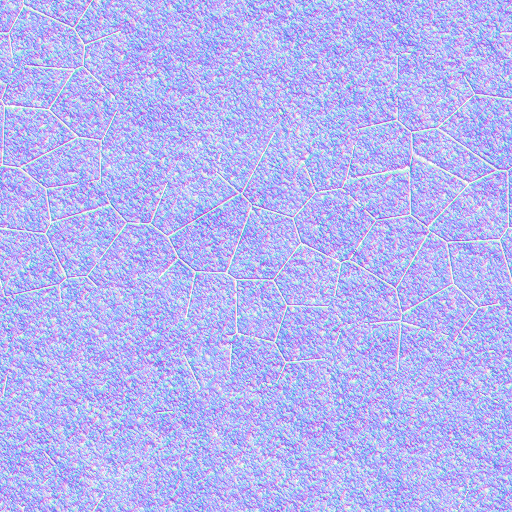
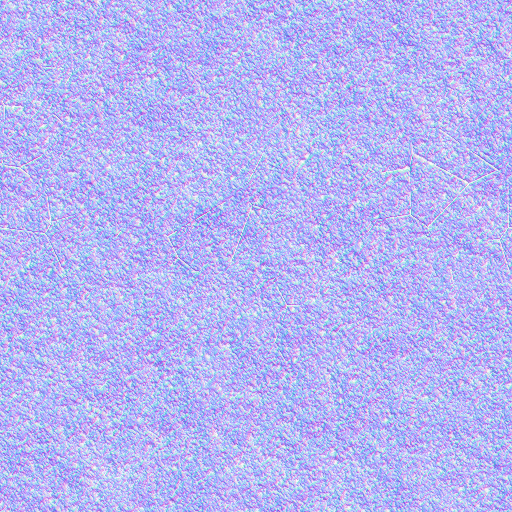
BLUE DEPTHS: per-species anemones, habitat in dex, rock texture tuning, docs
Claude-Session: https://claude.ai/code/session_0151Z8VC4Rsou7AMid53YERt

diff --git a/dive/src/life/species2.ts b/dive/src/life/species2.ts
@@ -135,9 +135,9 @@ export const MORE_SPECIES: SpeciesDef[] = [
     look: { c: ['#f6d020', '#f8dc2a', '#fae860'], fin: '#f4cc20' }, desc: '全身鮮やかなレモンイエロー。枝サンゴの周りから離れない。' }),
   F({ id: 'yosuji', name: 'フタスジリュウキュウスズメダイ', sci: 'Dascyllus reticulatus', zone: 'reef', d: [1, 30], size: 0.07, body: sh('damsel', { H: 0.55 }), hab: 'coralHover', n: 40, g: 8,
     look: { c: ['#9aa6ae', '#c0c8cc', '#dfe3e4'], fin: '#2a2a2a', tail: '#d0d4d6', bars: [[0.3, 0.07, '#1e1e1e'], [-0.18, 0.06, '#1e1e1e']], net: 'rgba(80,90,100,0.35)' }, desc: '銀灰色に2本の黒帯。ハナヤサイサンゴなどに群れて暮らす。' }),
-  F({ id: 'hamakumanomi', name: 'ハマクマノミ', sci: 'Amphiprion frenatus', zone: 'reef', d: [1, 12], size: 0.11, body: sh('clown'), hab: 'cleaner', behavior: 'anemone', region: 'anemones', n: 12, g: 6,
+  F({ id: 'hamakumanomi', name: 'ハマクマノミ', sci: 'Amphiprion frenatus', zone: 'reef', d: [1, 12], size: 0.11, body: sh('clown'), hab: 'cleaner', behavior: 'anemone', region: 'anemones', n: 10, g: 5,
     look: { c: ['#c8340c', '#e04a12', '#e86020'], fin: '#e05010', bars: [[0.3, 0.06, WH, BK]] }, desc: '赤オレンジの体に白帯1本。イソギンチャクに強く縄張りをもつ。' }),
-  F({ id: 'kumanomi', name: 'クマノミ', sci: 'Amphiprion clarkii', zone: 'reef', d: [1, 20], size: 0.12, body: sh('clown'), hab: 'cleaner', behavior: 'anemone', region: 'anemones', n: 12, g: 6,
+  F({ id: 'kumanomi', name: 'クマノミ', sci: 'Amphiprion clarkii', zone: 'reef', d: [1, 20], size: 0.12, body: sh('clown'), hab: 'cleaner', behavior: 'anemone', region: 'anemones', n: 10, g: 5,
     look: { c: ['#3a2410', '#5a3410', '#f09030'], mid: 0.4, fin: '#f0a020', tail: '#f6e080', bars: [[0.3, 0.07, WH, '#222'], [0.0, 0.08, WH, '#222']] }, desc: '黒褐色の体に白帯2本、ヒレは黄色。いろいろなイソギンチャクと共生する。' }),
   F({ id: 'hanabirakuma', name: 'ハナビラクマノミ', sci: 'Amphiprion perideraion', zone: 'reef', d: [2, 20], size: 0.09, body: sh('clown'), hab: 'cleaner', behavior: 'anemone', region: 'anemones', n: 10, g: 5,
     look: { c: ['#f0a07a', '#f6b48e', '#f8c4a2'], fin: '#f6c0a0', bars: [[0.3, 0.025, WH]], hl: [[0.5, 0.08, WH, -0.45, 0.45]] }, desc: '淡いピンク色に背中の白線。花びらのような可憐なクマノミ。' }),

diff --git a/dive/src/game/Game.ts b/dive/src/game/Game.ts
@@ -86,9 +86,12 @@ export class Game {
     this.scene.environment = this.makeEnvMap();
     this.scene.environmentIntensity = 0.6;
     this.scene.add(this.terrain.group);
+    const t0 = performance.now();
     this.flora = new Flora();
+    const t1 = performance.now();
     this.scene.add(this.flora.group);
     this.creatures = new Creatures(this.flora.homes);
+    (window as unknown as Record<string, unknown>).__BOOT_MS__ = { flora: Math.round(t1 - t0), creatures: Math.round(performance.now() - t1) };
     this.scene.add(this.creatures.group);
     this.audio.onExhale = () => {
       if (this.state === 'diving') this.env.exhale(this.camera, this.ads ? 0 : 1);
@@ -266,7 +269,7 @@ export class Game {
     $('dd-name').textContent = f ? s.name : '？？？';
     $('dd-sci').textContent = f ? s.sci : '';
     $('dd-meta').textContent = f ? `大きさ 約${s.size >= 1 ? s.size.toFixed(1) + 'm' : Math.round(s.size * 100) + 'cm'}　撮影水深 ${f.depth.toFixed(1)}m${this.pending.has(id) && !this.save.found[id] ? '　（未保存：浮上で登録）' : ''}` : '';
-    $('dd-desc').textContent = f ? s.desc : `ヒント：${s.hint}`;
+    $('dd-desc').textContent = f ? s.desc + (s.habLabel ? `\n【くらし】${s.habLabel}。` : '') : `ヒント：${s.hint}`;
     $('dex-detail').classList.remove('hidden');
   }
 
@@ -775,6 +778,16 @@ export class Game {
         this.camera.updateMatrixWorld();
         this.creatures.update(0, this.camera.position, this.vel, this.camera.getWorldDirection(this.tmpDir));
         this.paused = true;
+        return true;
+      },
+      aimAt: (id: string) => {
+        const rt = this.creatures.list.find((r) => r.def.id === id);
+        const a = rt?.agents[0];
+        if (!a) return false;
+        const c = this.camera.position;
+        const dx = a.p.x - c.x, dy = a.p.y - c.y, dz = a.p.z - c.z;
+        this.yaw = Math.atan2(-dx, -dz);
+        this.pitch = Math.atan2(dy, Math.hypot(dx, dz));
         return true;
       },
       nearFish: (r = 25) => {

diff --git a/dive/src/life/species.ts b/dive/src/life/species.ts
@@ -122,7 +122,7 @@ export const SPECIES: SpeciesDef[] = [
     hint: 'サンゴ礁のイソギンチャクを探そう。',
     kind: 'fish', fish: { H: 0.42, W: 0.2, peak: 0.58, nose: 0.55, ped: 0.24, tail: 'round', tailL: 0.22, tailH: 0.38, dorsal: [{ a: 0.2, b: 0.7, h: 0.13 }], anal: [{ a: 0.18, b: 0.4, h: 0.12 }], pect: { t: 0.7, len: 0.1, wid: 0.07, down: 0.4 }, pelvic: true, eyes: 0.14 },
     paint: (p) => { fins(p, '#f07018'); p.g.fillStyle = '#111'; p.g.fillRect(0, 0, p.U(-0.47), p.H); p.shade('#f06010', '#f87a18', '#f89040'); p.bar(0.3, 0.07, '#fafafa', '#111'); p.bar(0.03, 0.09, '#fafafa', '#111'); p.bar(-0.38, 0.06, '#fafafa', '#111'); p.eye(0.14, '#f06010'); },
-    count: 38, groups: 18, behavior: 'anemone', region: 'anemones', speed: 0.35, flee: 0, swim: [5, 0.05, 6], photoRange: 6,
+    count: 18, groups: 9, behavior: 'anemone', region: 'anemones', speed: 0.35, flee: 0, swim: [5, 0.05, 6], photoRange: 6,
   },
   {
     id: 'bluetang', name: 'ナンヨウハギ', sci: 'Paracanthurus hepatus', zone: 'reef', depth: [2, 40], size: 0.25, rarity: 1,

diff --git a/dive/src/life/creatures.ts b/dive/src/life/creatures.ts
@@ -158,7 +158,11 @@ export class Creatures {
     const reg = def.region;
     const fromList = (arr: THREE.Vector3[]) => arr[Math.floor(r() * arr.length) % Math.max(1, arr.length)].clone();
     let p: THREE.Vector3;
-    if (reg === 'anemones') p = homes.anemones[i % homes.anemones.length].clone();
+    if (reg === 'anemones') {
+      // each anemonefish species keeps its own host anemones
+      const off: Record<string, number> = { clownfish: 0, hamakumanomi: 9, kumanomi: 14, hanabirakuma: 19 };
+      p = homes.anemones[((off[def.id] ?? 0) + i) % homes.anemones.length].clone();
+    }
     else if (reg === 'crevices') p = homes.crevices[(i * 7) % homes.crevices.length].clone();
     else if (reg === 'reefSpots') p = fromList(homes.reefSpots);
     else if (reg === 'rockSpots') p = fromList(homes.rockSpots);

diff --git a/dive/src/styles.css b/dive/src/styles.css
@@ -231,7 +231,7 @@ svg { fill: currentColor; }
 #dex-detail h3 { margin: 0; font-size: 22px; }
 .dd-sci { font-family: var(--num); font-style: italic; color: var(--ink-dim); font-size: 13px; }
 .dd-meta { font-family: var(--num); font-size: 12.5px; color: var(--ink-dim); }
-#dd-desc { margin: 4px 0; font-size: 14px; line-height: 1.7; }
+#dd-desc { margin: 4px 0; font-size: 14px; line-height: 1.7; white-space: pre-line; }
 
 #loading { background: #021624; flex-direction: column; gap: 14px; color: var(--ink-dim); font-size: 13px; }
 .spinner { width: 34px; height: 34px; border-radius: 50%; border: 3px solid rgba(95,227,240,0.2); border-top-color: var(--cyan); animation: spin 0.9s linear infinite; }

diff --git a/dive/src/world/flora.ts b/dive/src/world/flora.ts
@@ -650,7 +650,7 @@ export class Flora {
 
     // ---- anemones (clownfish homes)
     const anG = anemoneGeometry();
-    const anem = sample(18, [-120, 60, 150, 320], (x, z) => reefOk(x, z) && heightAt(x, z) > -12.5, 30);
+    const anem = sample(28, [-150, 90, 150, 330], (x, z) => reefOk(x, z) && heightAt(x, z) > -12.5, 30);
     add(anG, anemoneMat, anem.map(([x, z]) => ({ m: placeMatrix(x, z, 1.1 + r() * 0.5, r, 0.8, 0), c: [color(0.9, 0.55, 0.62), color(0.06, 0.6, 0.66), color(0.78, 0.45, 0.62), color(0.22, 0.45, 0.6)][Math.floor(r() * 4)] })));
     this.homes.anemones = anem.map(([x, z]) => new THREE.Vector3(x, heightAt(x, z) + 0.45, z));
 

diff --git a/dive/src/world/layout.ts b/dive/src/world/layout.ts
@@ -146,7 +146,7 @@ export function bottomMaterial(x: number, z: number, slope: number, out: number[
     sand *= 1 - turf;
   }
   const rw = rockyWeight(x, z);
-  const rockT = clamp(Math.max(rw * 0.85, smoothstep(0.25, 0.6, slope)), 0, 1);
+  const rockT = clamp(Math.max(rw * (0.35 + 0.6 * smoothstep(-0.25, 0.25, fbm2(x * 0.04 + 3, z * 0.04, 2))), smoothstep(0.25, 0.6, slope)), 0, 1);
   if (rockT > 0) {
     const alg = smoothstep(-40, -6, h) * smoothstep(0.0, 0.5, n + 0.3);
     r = lerp(r, lerp(0.36, 0.33, alg) + 0.05 * n2, rockT);

diff --git a/dive/scripts/gen_textures.py b/dive/scripts/gen_textures.py
@@ -104,8 +104,8 @@ def rock(n=512):
     mid = fft_noise(n, 2.0, 12, lo=3)
     ridged = 1 - np.abs(fft_noise(n, 2.2, 16, lo=2) * 2 - 1)
     f1, f2, cid = worley(n, 9, 13)
-    mask = fft_noise(n, 3.0, 17, lo=1) > 0.55
-    cracks = np.where(mask, np.clip((f2 - f1) / 0.035, 0, 1), 1.0)
+    mask = fft_noise(n, 3.0, 17, lo=1) > 0.72
+    cracks = np.where(mask, np.clip((f2 - f1) / 0.025, 0, 1), 1.0) ** 0.5
     g1, g2, gid = worley(n, 30, 14)
     pits = np.clip(1 - g1 / 0.3, 0, 1) ** 2 * (gid > 0.6)
     rng = np.random.default_rng(15)

diff --git a/dive/README.md b/dive/README.md
@@ -1,8 +1,12 @@
 # BLUE DEPTHS
 
 スマホブラウザ向けの3Dダイビング＆写真図鑑ゲーム（Three.js / TypeScript / Vite）。
-浅瀬ラグーン・サンゴ礁・岩礁・ドロップオフ／沖・深海の5エリアで、33種の生き物を撮影して図鑑を埋める。
+浅瀬ラグーン・サンゴ礁・岩礁・ドロップオフ／沖・深海の5エリアで、150種の生き物を撮影して図鑑を埋める。
 モデル・テクスチャ・音はすべて手続き生成（外部API・有料素材なし）。設計は `DESIGN.md`。
+
+- 浅場の魚の種類と配色は quiz リポジトリの `images/`（沖縄の浅海魚の写真）を参考に作成（写真そのものは使っていない）。
+- 岩肌・砂地・サンゴのポリプ・ノウサンゴの模様は `scripts/gen_textures.py`（numpy）で焼いた法線＋アルベドのタイル画像を、トライプラナーで貼っている。
+- 魚は生態ごとの「くらし（マイクロハビタット）」を持つ：枝サンゴの上に浮かぶ／サンゴをついばむ／テーブルサンゴの下に潜む／サンゴや岩の上にとまる／砂地の巣穴でホバリング／砂地すれすれで採餌／礁縁の中層で群れる／壁沿い／水面直下／海草藻場／クリーニングステーション など。
 
 ## 遊び方
 | 操作 | スマホ | PC |
@@ -16,11 +20,12 @@
 | マップ | 左上の丸いミニマップをタップ | N |
 
 - エアは深いほど速く減る。エア切れで気絶すると、その潜水の写真は失われる。浮上すると図鑑に登録。
-- 図鑑4/8/12/16種でフィン・大型タンク・水中スクーター・大気圧潜水服（深海解放）を入手。
+- 図鑑5/12/22/35種でフィン・大型タンク・水中スクーター・大気圧潜水服（深海解放）を入手。
 
 ## 開発
 ```
 npm install
 npm run dev        # http://127.0.0.1:5190
 npm run artifact   # dist/artifact.html（1ファイルにインライン化）
+python3 scripts/gen_textures.py   # 表面テクスチャの再生成
 ```
